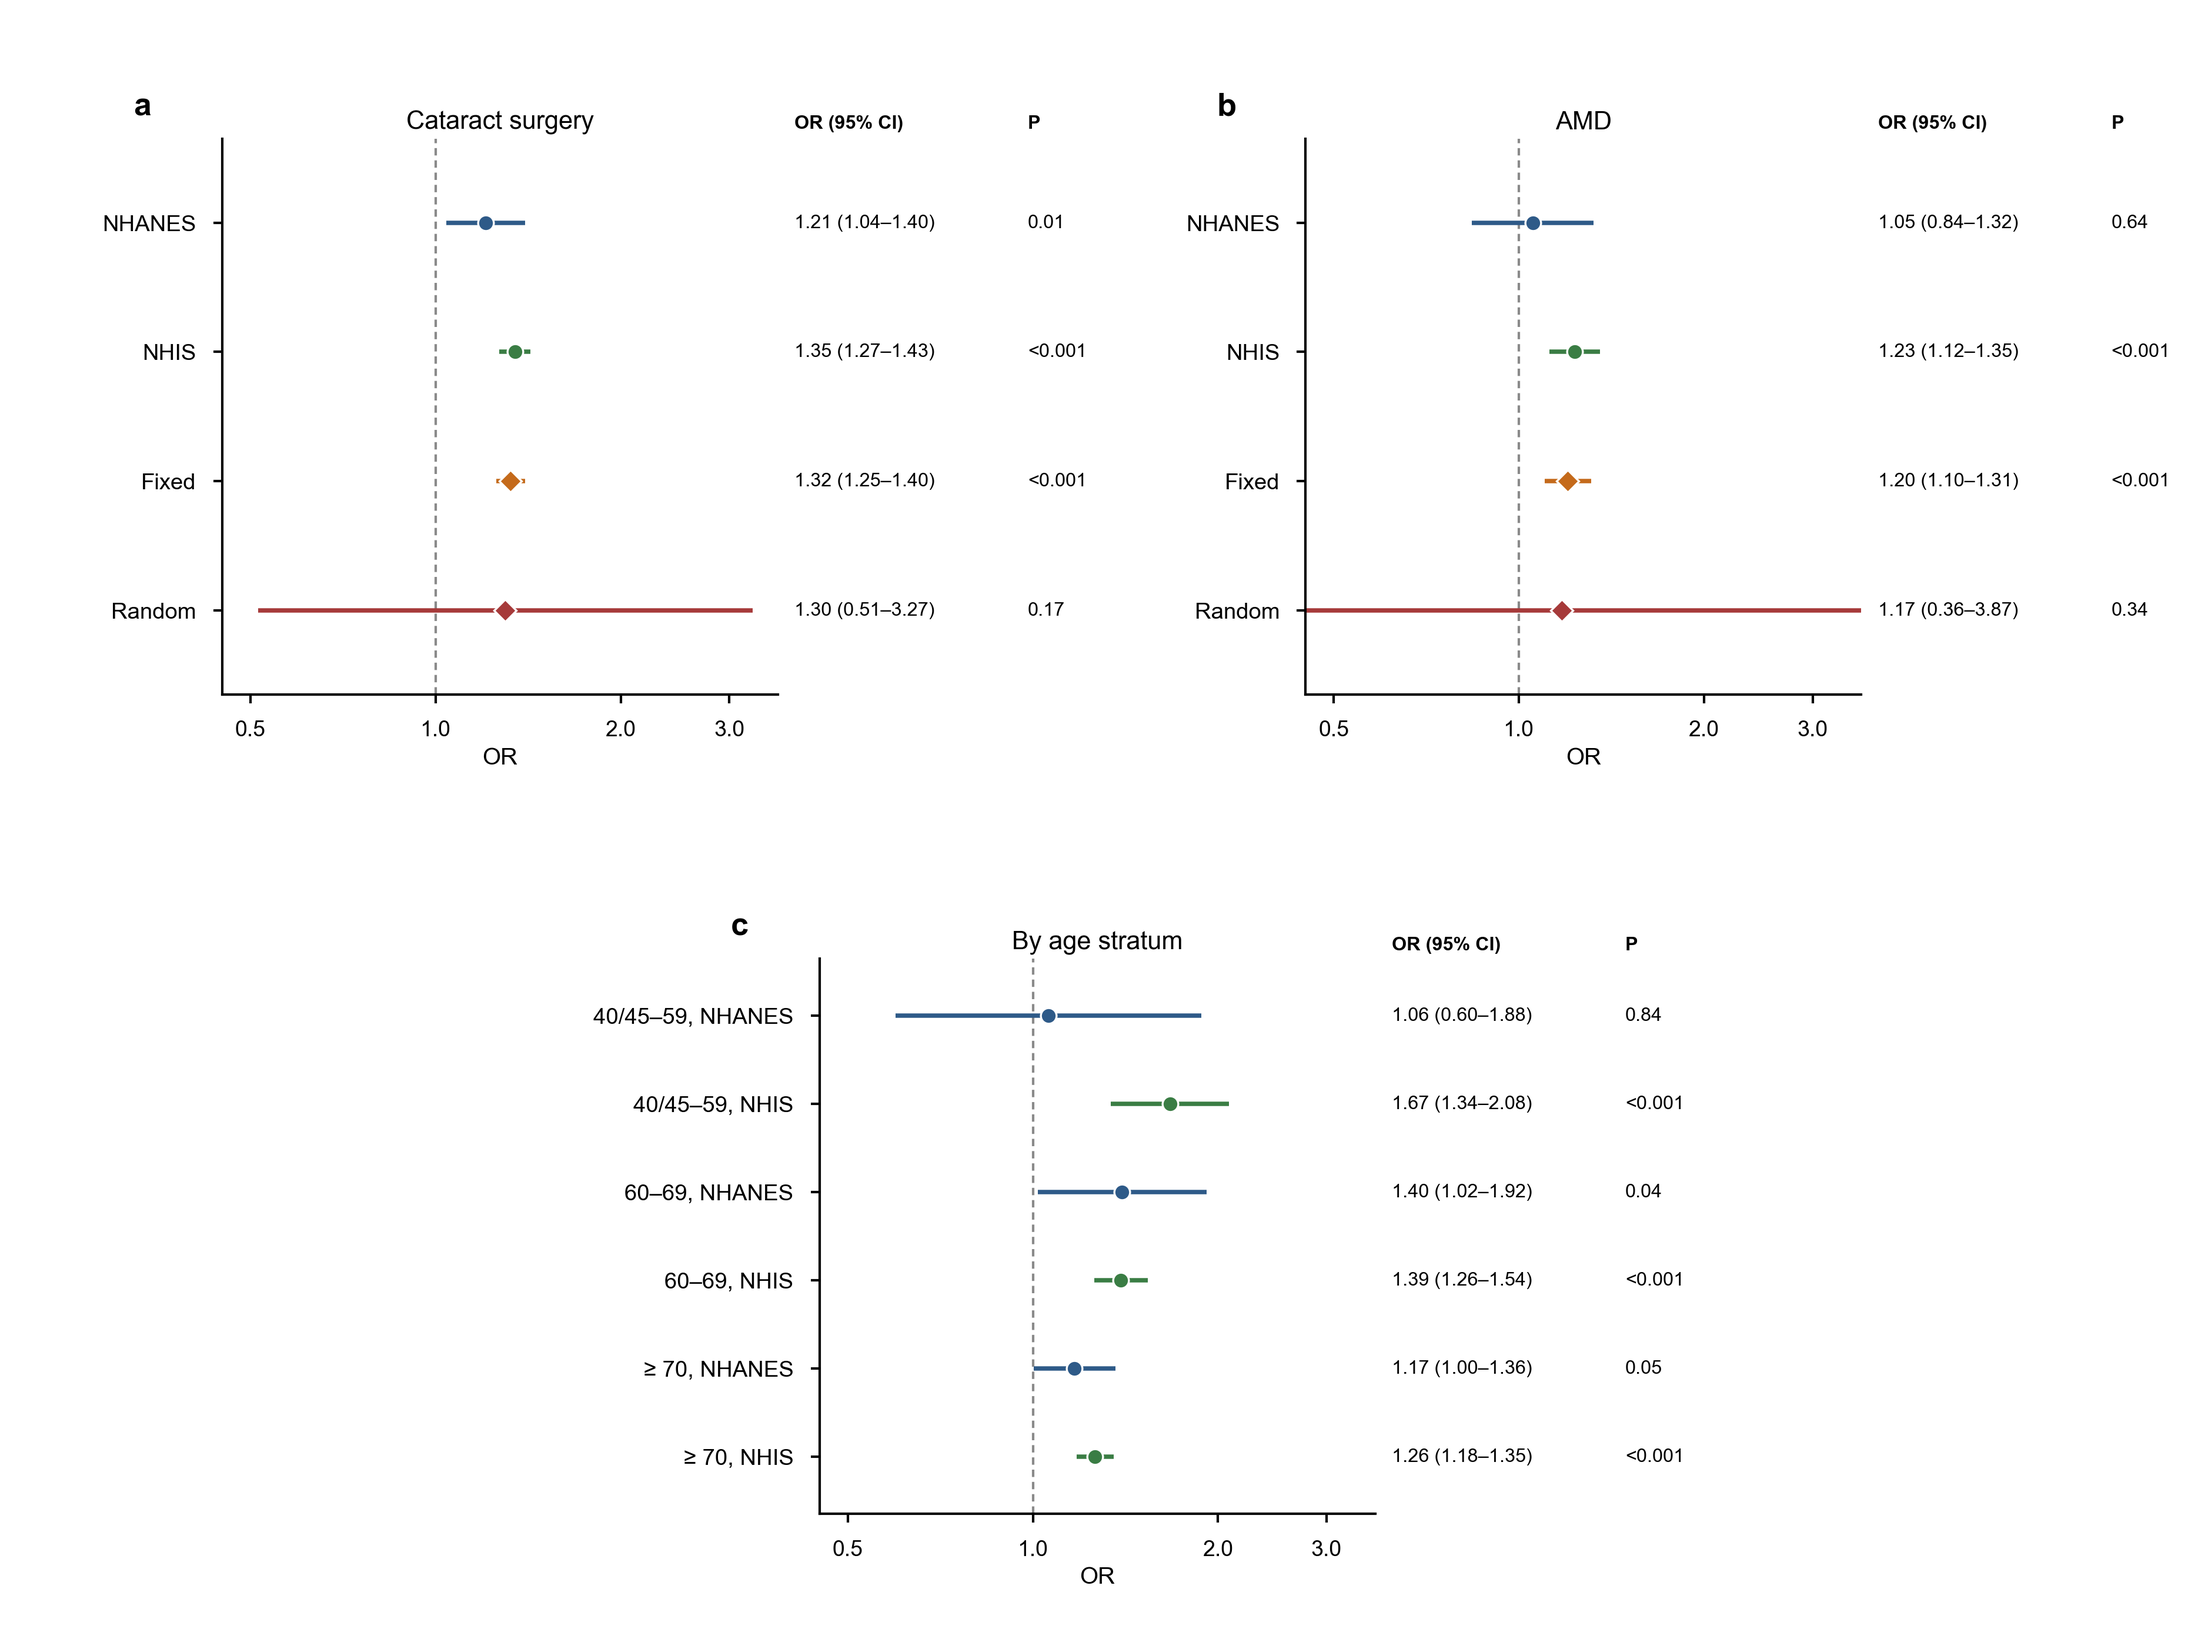
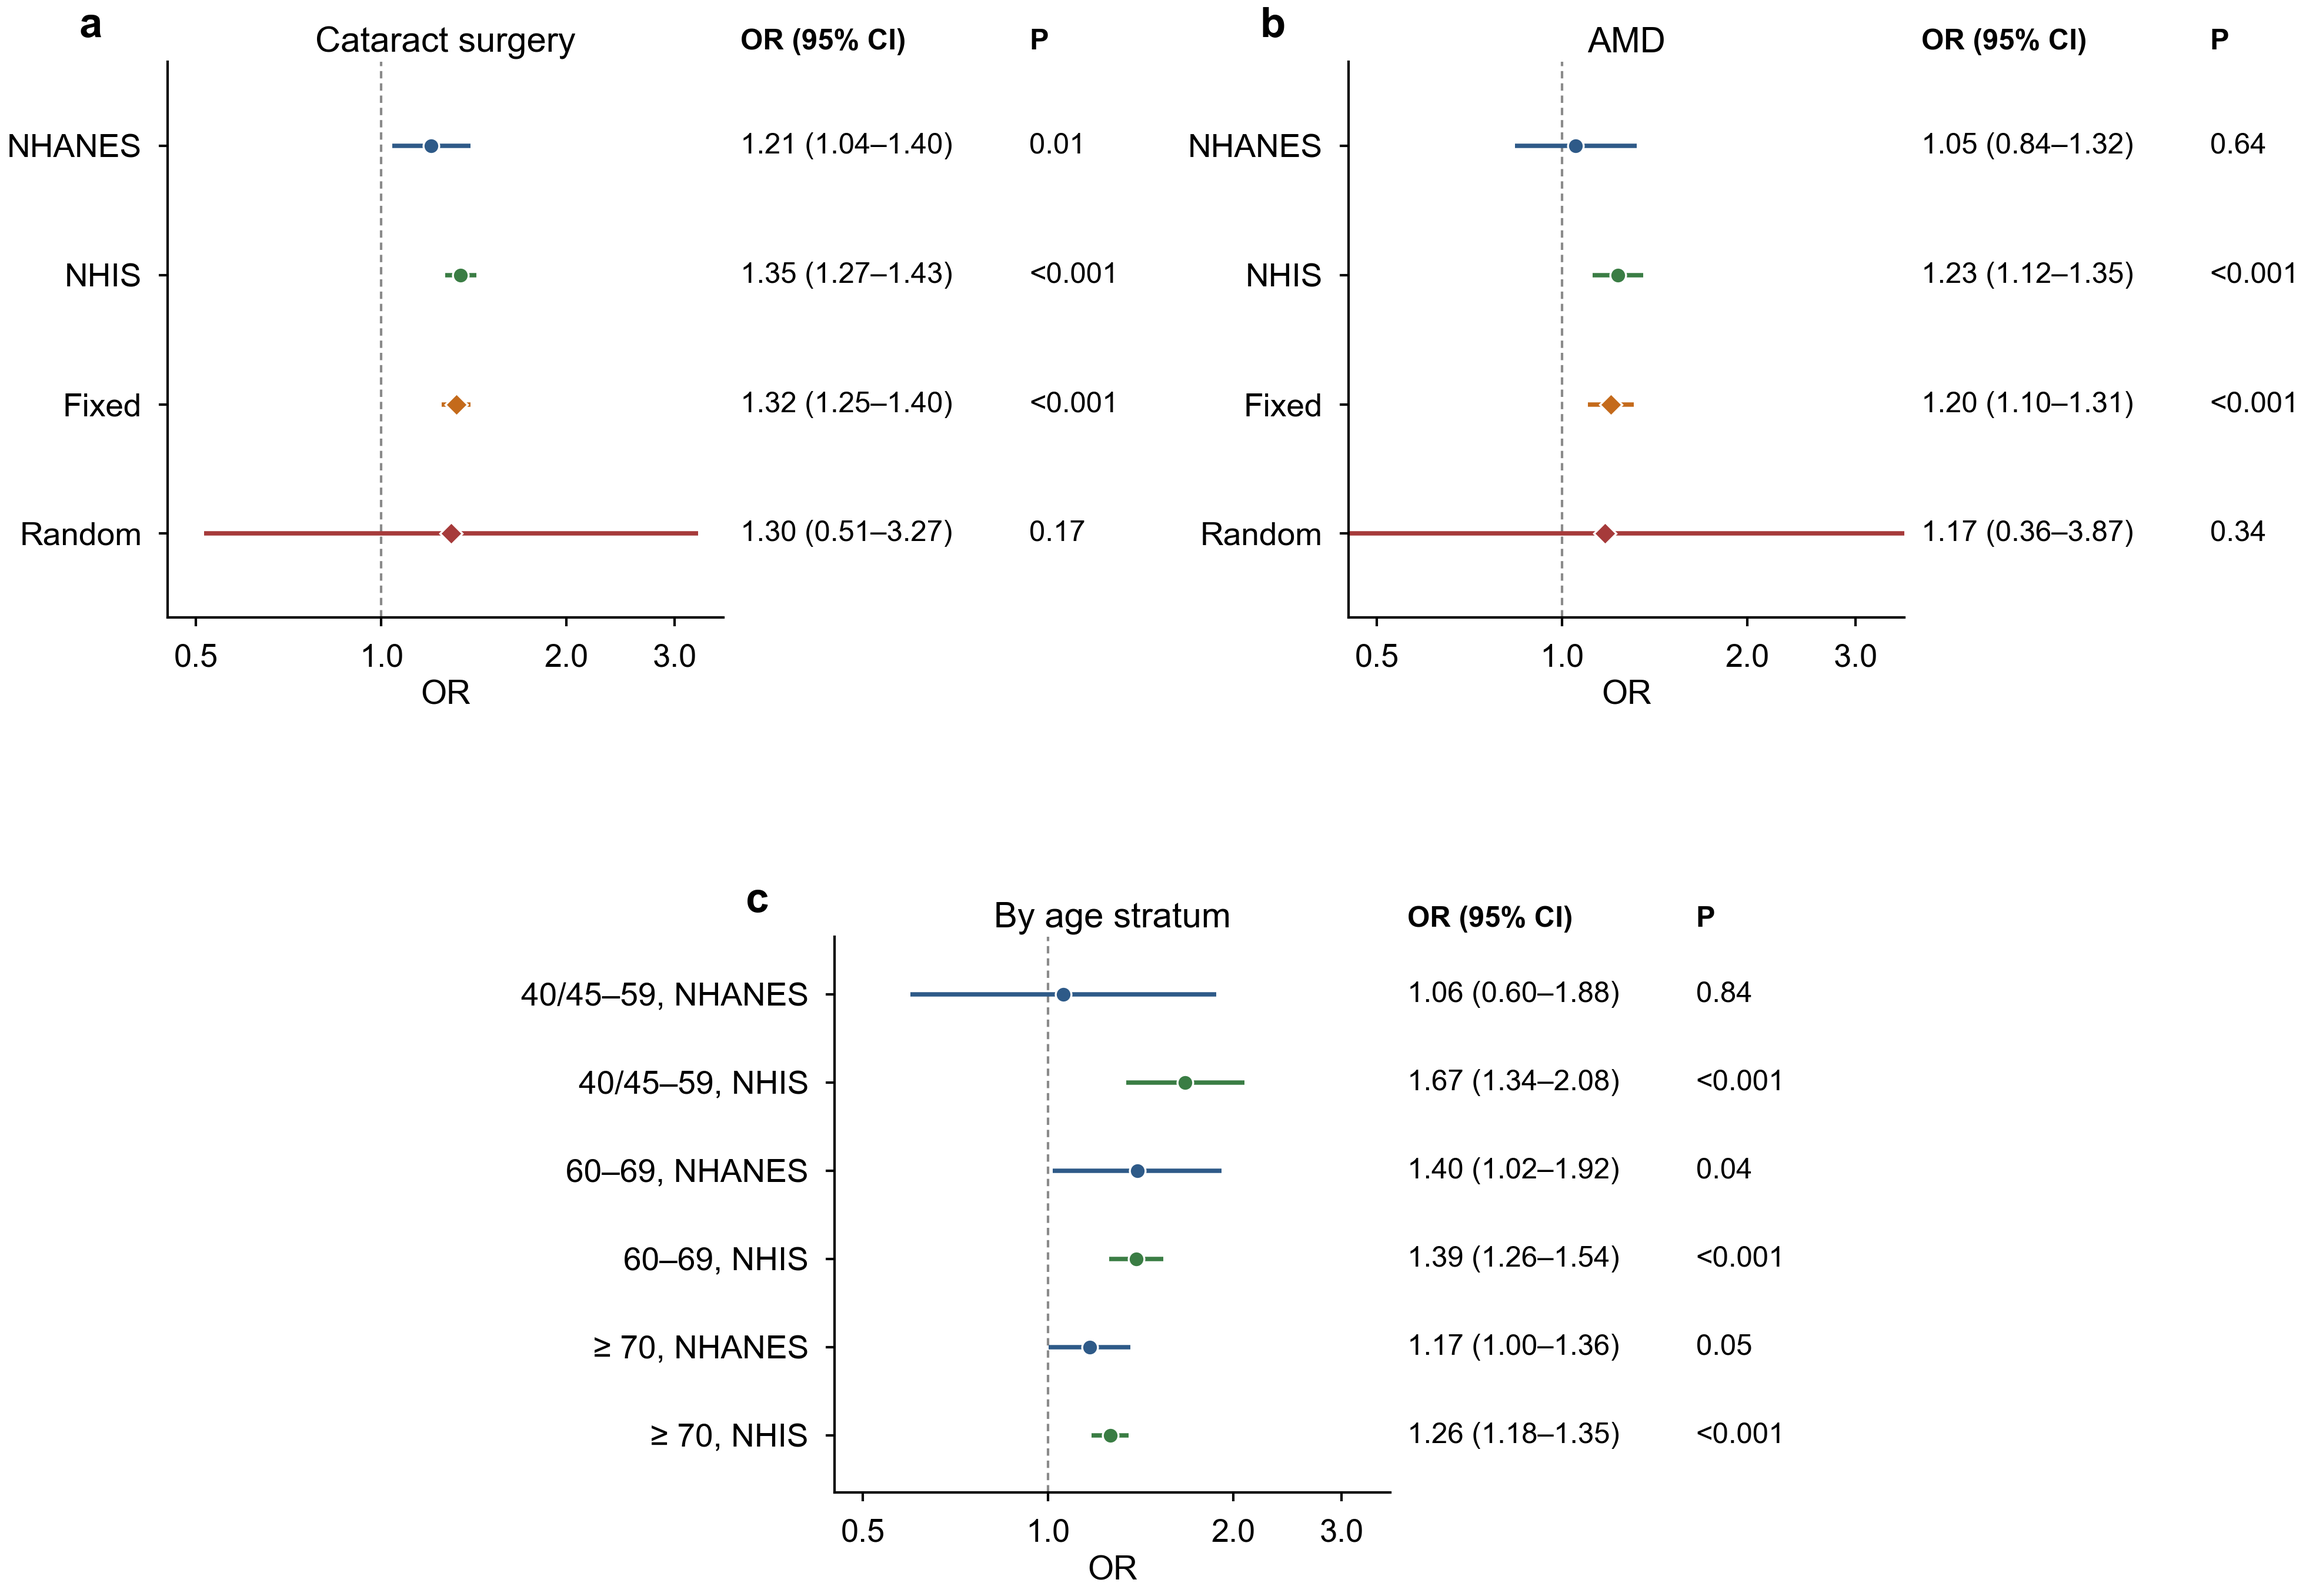
Increase figure fonts by 2 pt and widen annotation margins

diff --git a/scripts/12_figures_svyglm.py b/scripts/12_figures_svyglm.py
@@ -11,8 +11,8 @@ os.makedirs(FIG, exist_ok=True)
 CM = 1/2.54
 plt.rcParams.update({
     "font.family":"sans-serif", "font.sans-serif":["Arial","Helvetica","DejaVu Sans"],
-    "font.size":5.2, "axes.labelsize":4.8, "axes.titlesize":5.2, "xtick.labelsize":4.5,
-    "ytick.labelsize":4.6, "legend.fontsize":4.2, "axes.linewidth":0.5,
+    "font.size":7.2, "axes.labelsize":6.8, "axes.titlesize":7.2, "xtick.labelsize":6.5,
+    "ytick.labelsize":6.6, "legend.fontsize":6.2, "axes.linewidth":0.5,
     "xtick.major.width":0.5, "ytick.major.width":0.5, "xtick.major.size":1.8,
     "ytick.major.size":1.8, "xtick.direction":"out", "ytick.direction":"out",
     "axes.spines.top":False, "axes.spines.right":False, "savefig.dpi":600,
@@ -26,7 +26,7 @@ def axes_cm(fig, l, b, w=4.0, h=4.0):
     return fig.add_axes([l/W, b/H, w/W, h/H])
 
 def alabel(ax, letter):
-    ax.text(-0.16, 1.03, letter, transform=ax.transAxes, fontsize=6.5, fontweight="bold",
+    ax.text(-0.16, 1.03, letter, transform=ax.transAxes, fontsize=8.5, fontweight="bold",
             va="bottom", ha="left", clip_on=False)
 
 def fp(p):
@@ -37,7 +37,7 @@ def fp(p):
 
 def forest_panel(fig, x0, y0, rows, title, letter, left_cm=1.5,
                  xlim=(0.45,3.6), xticks=(0.5,1,2,3), xlog=True, null=1.0,
-                 xlabel="OR", header="OR (95% CI)", diff=False, p_x=1.45):
+                 xlabel="OR", header="OR (95% CI)", diff=False, p_x=1.55):
     ax = axes_cm(fig, x0 + left_cm, y0, 4.0, 4.0)
     ys = np.arange(len(rows))[::-1]
     for yi,(lab,OR,lo,hi,col,mk,p) in zip(ys,rows):
@@ -57,12 +57,12 @@ def forest_panel(fig, x0, y0, rows, title, letter, left_cm=1.5,
     ax.set_title(title, pad=2)
     alabel(ax, letter)
     tr = mtrans.blended_transform_factory(ax.transAxes, ax.transData)
-    ax.text(1.03, len(rows)-0.30, header, transform=tr, fontsize=3.9, fontweight="bold", va="bottom", ha="left")
-    ax.text(p_x, len(rows)-0.30, "P", transform=tr, fontsize=3.9, fontweight="bold", va="bottom", ha="left")
+    ax.text(1.03, len(rows)-0.30, header, transform=tr, fontsize=5.9, fontweight="bold", va="bottom", ha="left")
+    ax.text(p_x, len(rows)-0.30, "P", transform=tr, fontsize=5.9, fontweight="bold", va="bottom", ha="left")
     for yi,(lab,OR,lo,hi,col,mk,p) in zip(ys,rows):
         s = f"{OR:+.3f} ({lo:+.3f}, {hi:+.3f})" if diff else f"{OR:.2f} ({lo:.2f}\u2013{hi:.2f})"
-        ax.text(1.03, yi, s, transform=tr, fontsize=3.9, va="center", ha="left")
-        ax.text(p_x, yi, fp(p), transform=tr, fontsize=3.9, va="center", ha="left")
+        ax.text(1.03, yi, s, transform=tr, fontsize=5.9, va="center", ha="left")
+        ax.text(p_x, yi, fp(p), transform=tr, fontsize=5.9, va="center", ha="left")
     return ax
 
 # ---------------------------------------------------------------- data
@@ -104,11 +104,11 @@ rows_a = [("CMM4",*c4a[:3],C["blue"],"o",c4a[3]),
           ("Dyslipidaemia",da.dys_OR,da.dys_lo,da.dys_hi,C["purple"],"o",da.dys_p),
           ("CMM3+access",*acc_a[:3],C["grey"],"o",acc_a[3]),
           ("Objective AMD",*obj[:3],C["red"],"s",obj[3])]
-fig = plt.figure(figsize=(15.9*CM, 6.2*CM))
-forest_panel(fig, 0.2, 1.0, rows_c, "Cataract surgery", "a")
-forest_panel(fig, 8.0, 1.0, rows_a, "AMD", "b")
-fig.savefig(os.path.join(FIG,"Fig1_nhanes_forest.png"), dpi=600)
-fig.savefig(os.path.join(FIG,"Fig1_nhanes_forest.pdf")); plt.close(fig); print("Fig1 done")
+fig = plt.figure(figsize=(17.3*CM, 6.8*CM))
+forest_panel(fig, 0.2, 1.2, rows_c, "Cataract surgery", "a", left_cm=1.8)
+forest_panel(fig, 8.8, 1.2, rows_a, "AMD", "b", left_cm=1.8)
+fig.savefig(os.path.join(FIG,"Fig1_nhanes_forest.png"), dpi=600, bbox_inches="tight", pad_inches=0.02)
+fig.savefig(os.path.join(FIG,"Fig1_nhanes_forest.pdf"), bbox_inches="tight", pad_inches=0.02); plt.close(fig); print("Fig1 done")
 
 # ---------------------------------------------------------------- Figure 2
 tot = prim[prim.model=="CMM4_total"]; dirn = prim[prim.model=="CMM4_direct_adjCRP"]
@@ -124,14 +124,14 @@ def bp(v):
 ic=(np.mean(ind_c),np.quantile(ind_c,.025),np.quantile(ind_c,.975),bp(ind_c))
 ia=(np.mean(ind_a),np.quantile(ind_a,.025),np.quantile(ind_a,.975),bp(ind_a))
 rows2b=[("Cataract",*ic[:3],C["red"],"o",ic[3]),("AMD",*ia[:3],C["red"],"o",ia[3])]
-fig = plt.figure(figsize=(15.9*CM, 6.2*CM))
-forest_panel(fig, 0.2, 1.0, rows2a, "Total vs CRP-adjusted", "a", left_cm=1.8)
-forest_panel(fig, 8.2, 1.0, rows2b, "Difference", "b", left_cm=1.2,
+fig = plt.figure(figsize=(17.4*CM, 6.8*CM))
+forest_panel(fig, 0.2, 1.2, rows2a, "Total vs CRP-adjusted", "a", left_cm=2.1)
+forest_panel(fig, 9.0, 1.2, rows2b, "Difference", "b", left_cm=1.5,
              xlim=(-0.07,0.05), xticks=(-0.06,-0.04,-0.02,0.0,0.02,0.04),
              xlog=False, null=0.0, xlabel="Difference", header="Difference (95% CI)",
-             diff=True, p_x=1.55)
-fig.savefig(os.path.join(FIG,"Fig2_mediation.png"), dpi=600)
-fig.savefig(os.path.join(FIG,"Fig2_mediation.pdf")); plt.close(fig); print("Fig2 done")
+             diff=True, p_x=1.68)
+fig.savefig(os.path.join(FIG,"Fig2_mediation.png"), dpi=600, bbox_inches="tight", pad_inches=0.02)
+fig.savefig(os.path.join(FIG,"Fig2_mediation.pdf"), bbox_inches="tight", pad_inches=0.02); plt.close(fig); print("Fig2 done")
 
 # ---------------------------------------------------------------- Figure 3
 def crows(outcome):
@@ -148,9 +148,9 @@ for age,lab in [("40-59","40/45\u201359"),("60-69","60\u201369"),("70+","\u2265 
     for name,col in [("NHANES",C["blue"]),("NHIS",C["green"])]:
         r=strat[(strat.cohort==name)&(strat.outcome=="cataract")&(strat.agegrp==age)].iloc[0]
         rows3c.append((f"{lab}, {name}",r.OR,r.lo,r.hi,col,"o",r.p))
-fig = plt.figure(figsize=(15.9*CM, 11.8*CM))
-forest_panel(fig, 0.2, 6.8, rows3a, "Cataract surgery", "a", left_cm=1.4)
-forest_panel(fig, 8.0, 6.8, rows3b, "AMD", "b", left_cm=1.4)
-forest_panel(fig, 3.6, 0.9, rows3c, "By age stratum", "c", left_cm=2.3)
-fig.savefig(os.path.join(FIG,"Fig3_cross_survey.png"), dpi=600)
-fig.savefig(os.path.join(FIG,"Fig3_cross_survey.pdf")); plt.close(fig); print("Fig3 done")
+fig = plt.figure(figsize=(17.2*CM, 12.6*CM))
+forest_panel(fig, 0.2, 7.2, rows3a, "Cataract surgery", "a", left_cm=1.7)
+forest_panel(fig, 8.7, 7.2, rows3b, "AMD", "b", left_cm=1.7)
+forest_panel(fig, 3.8, 0.9, rows3c, "By age stratum", "c", left_cm=2.9)
+fig.savefig(os.path.join(FIG,"Fig3_cross_survey.png"), dpi=600, bbox_inches="tight", pad_inches=0.02)
+fig.savefig(os.path.join(FIG,"Fig3_cross_survey.pdf"), bbox_inches="tight", pad_inches=0.02); plt.close(fig); print("Fig3 done")
